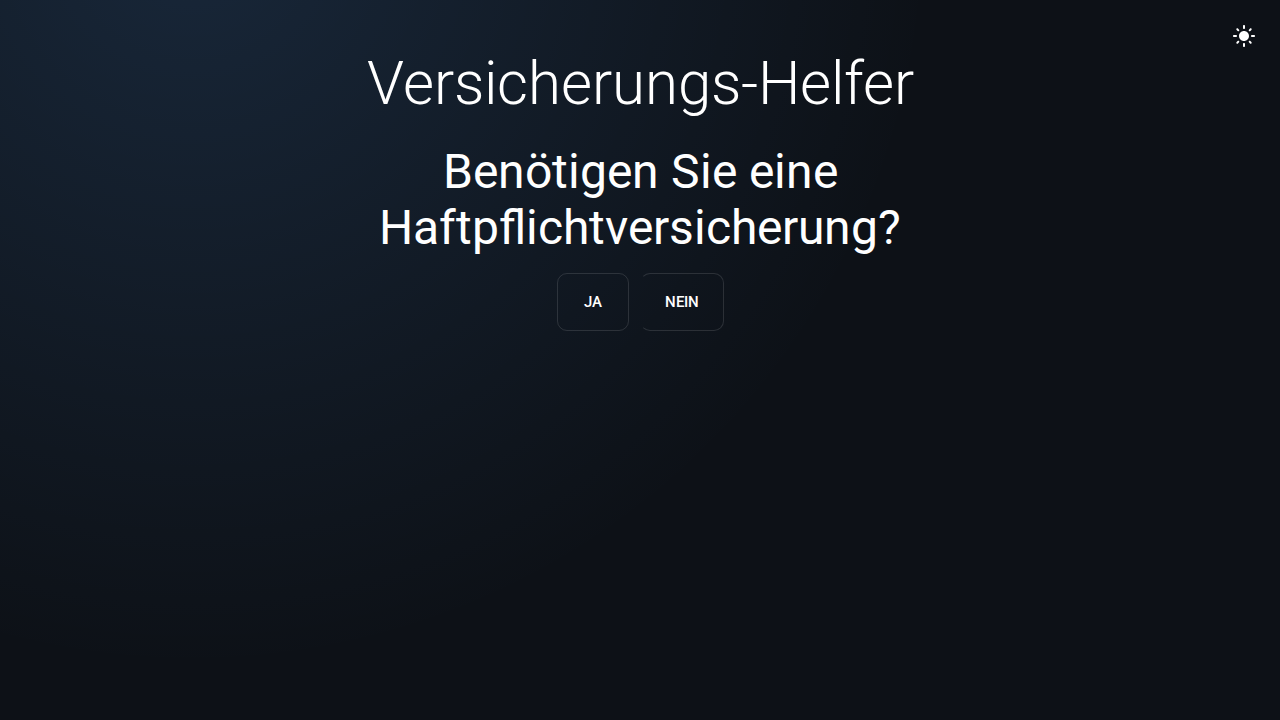
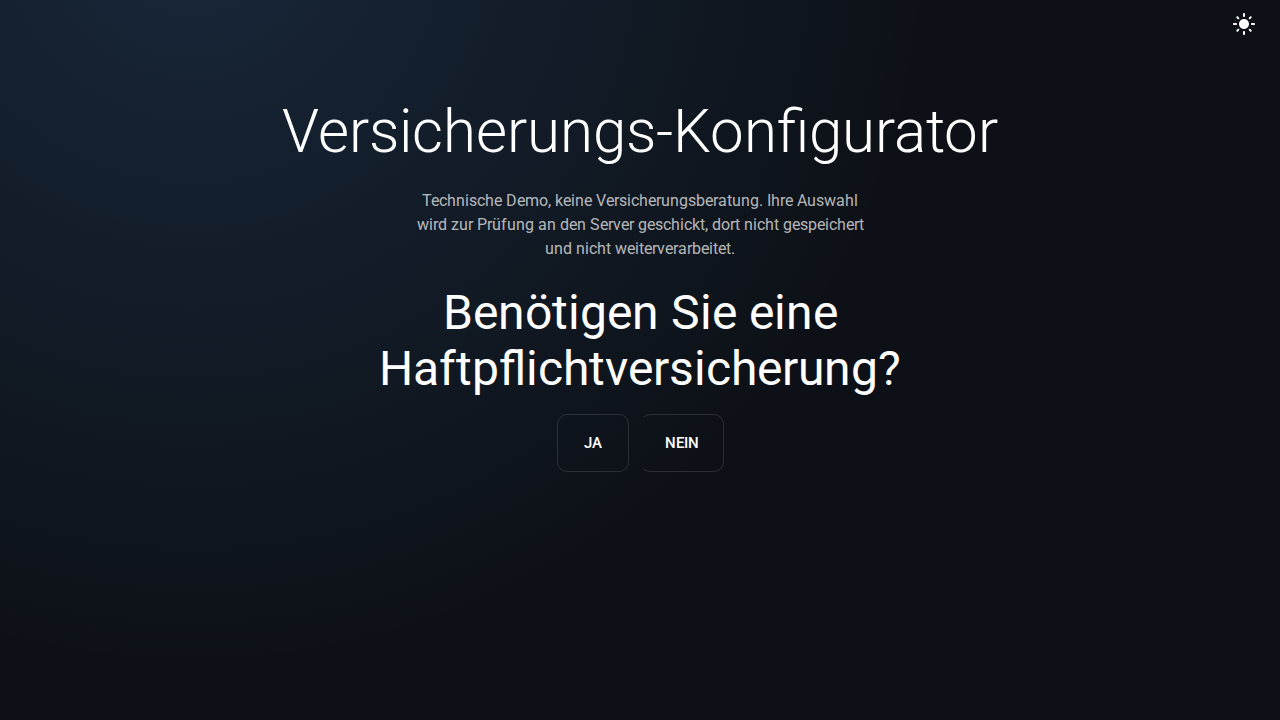
test(visual): refresh baselines and tighten the diff tolerance to 2%
Each visual spec allowed 5% of pixels to differ while the global config set 2%,
which is enough slack to hide a whole control changing. The per-spec override is
gone, so the global limit applies.

Baselines regenerated in the pinned Playwright container for the renamed title,
the demo subtitle and the configuration summary. README screenshots refreshed
from the same run.

diff --git a/e2e/visual.spec.ts b/e2e/visual.spec.ts
@@ -7,11 +7,14 @@ import { choose, completeFlow, QUESTIONS, toggleColorScheme } from './helpers';
  * Chromium and are executed in a pinned Playwright container (see the visual
  * workflow) rather than in the main CI gate. Regenerate baselines with
  * `pnpm test:visual --update-snapshots` in that same container.
+ *
+ * The tolerance is the global 2% from playwright.config.ts. These used to allow
+ * 5% each, which is enough to hide a whole control changing.
  */
 test.describe('visual regression @visual', () => {
   test.skip(({ browserName }) => browserName !== 'chromium', 'baselines are Chromium-only');
 
-  const options = { fullPage: true, maxDiffPixelRatio: 0.05 } as const;
+  const options = { fullPage: true } as const;
 
   test('initial page', async ({ page }) => {
     await page.goto('/');
@@ -64,7 +67,7 @@ test.describe('forced-colors @visual', () => {
     'forced-colors emulation is Chromium-only',
   );
 
-  const options = { fullPage: true, maxDiffPixelRatio: 0.05 } as const;
+  const options = { fullPage: true } as const;
 
   test('initial page', async ({ page }) => {
     await page.emulateMedia({ forcedColors: 'active' });
